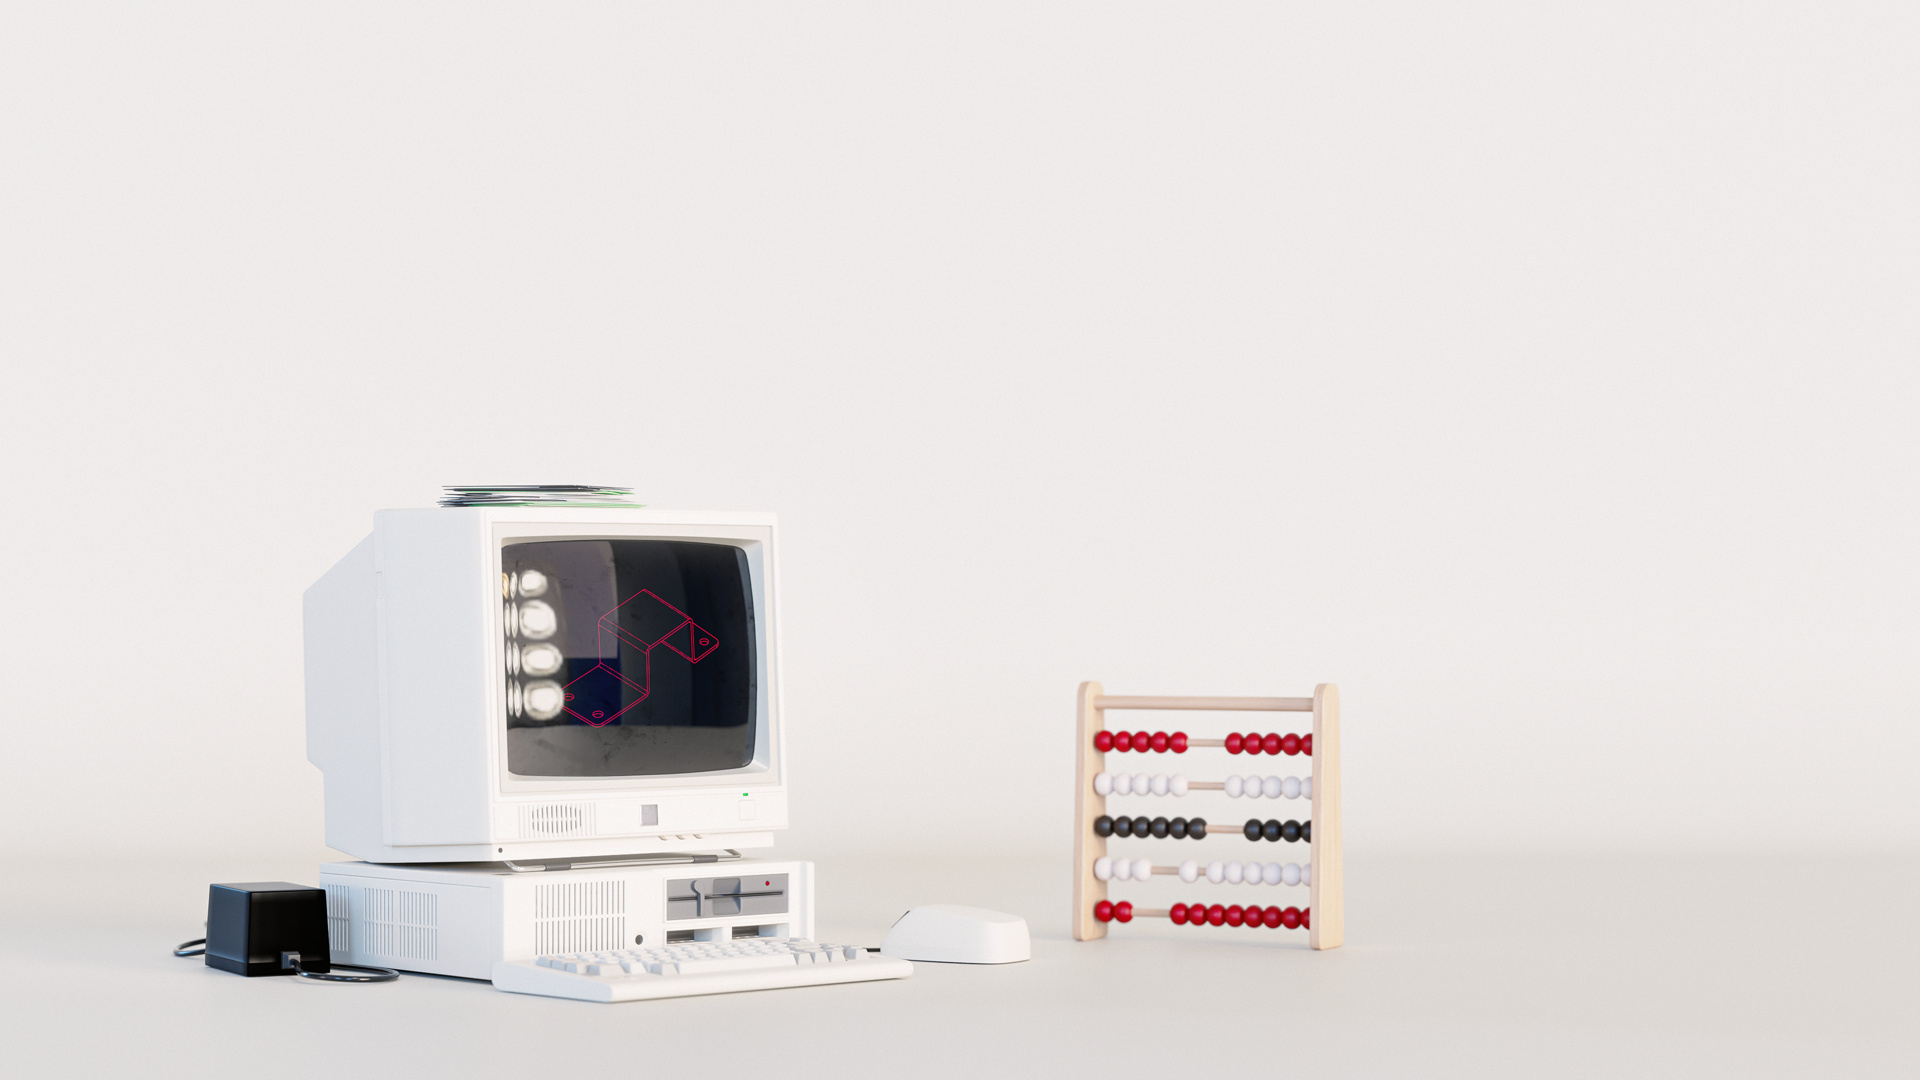
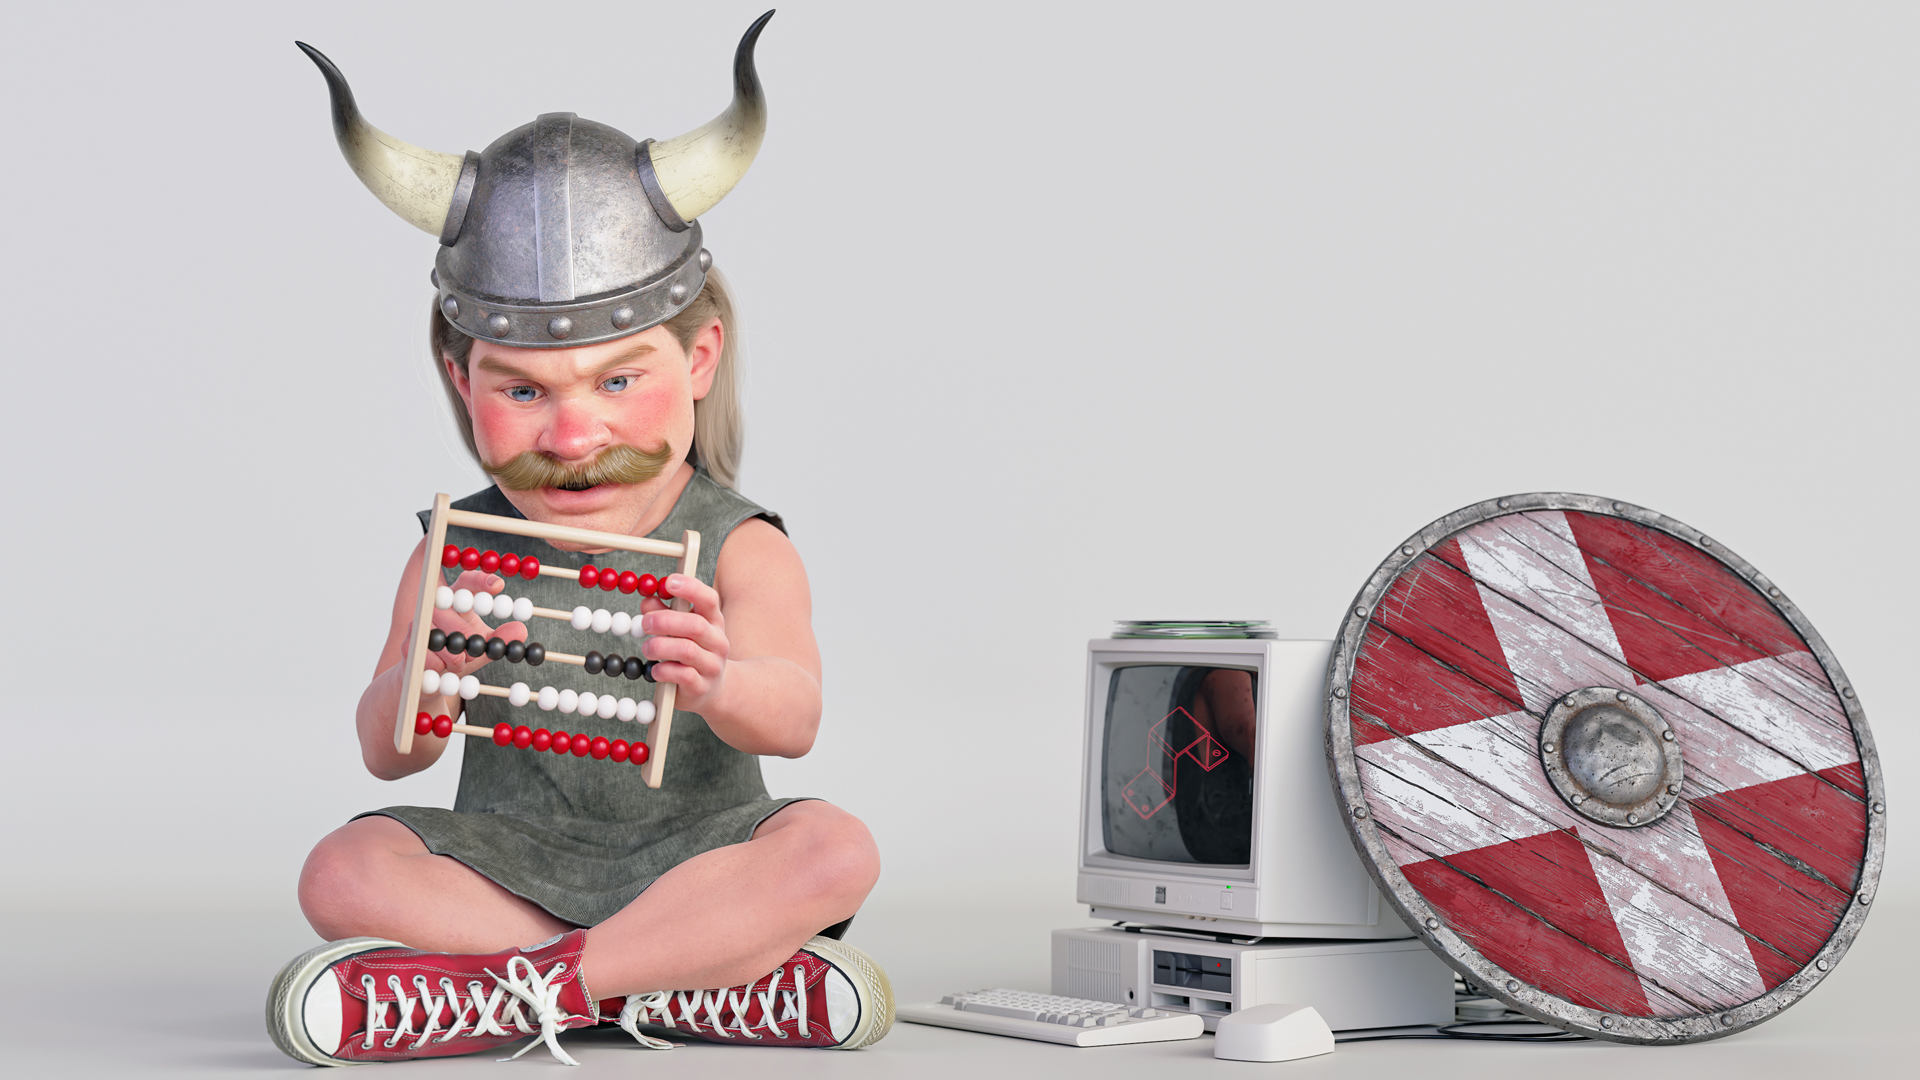
Welcome art: the Viking with the abacus in every build, under its own licence
The maintainer's Warrior illustration, until now the Ridgewater edition's, is the
built-in welcome art. It's the maintainer's own character, so the official build shows
it too. The JPEG is the edition's, with its EXIF, XMP and Photoshop segments dropped
losslessly; its pixels are unchanged.

It's not under Apache-2.0: ART-LICENSE.md keeps it for this project only, credited
"Welcome art © inmymoonsuit", and a modified build must show its own art. About, the
installer's license page, the notices, the build's copied notices and the wheel's
License-Expression say so (ADR-0008 and ADR-0015, amendments).

The README names where the project started: the CADD program at Ridgewater College.

diff --git a/tests/test_welcome.py b/tests/test_welcome.py
@@ -492,22 +492,24 @@ def test_the_fills_are_chosen_before_the_cards_first_paint() -> None:
     welcome.close()
 
 
-def test_the_built_in_art_keeps_both_panes_quiet() -> None:
-    """The built-in art is light and calm: both panes stay at the floor, ink on white.
+def test_the_built_in_art_keeps_the_title_quiet() -> None:
+    """The built-in art is light: both panes are ink on white, the title's at the floor.
 
-    So the title shows the logo in black, the normal one.
+    So the title shows the logo in black, the normal one. The version sits over the
+    shield's rim, so its fill rises to read.
     """
     import math
 
     from caddcalc.gui.icons import current_scheme
 
-    panes = style().panes
+    floor = math.ceil(style().panes.fill_opacity_min * 255)
     welcome = screen()
     welcome.show()
     for pane in (welcome.title, welcome.art.version_pane):
         text_role, fill_role, alpha = pane.fill(current_scheme())
         assert (text_role, fill_role) == ("welcome_ink", "welcome_paper")
-        assert alpha == math.ceil(panes.fill_opacity_min * 255), pane.accessibleName()
+        assert alpha >= floor, pane.accessibleName()
+    assert welcome.title.fill(current_scheme())[2] == floor
     assert welcome.title.shown_logo(current_scheme()) == "normal"
     welcome.close()
 
@@ -522,21 +524,24 @@ def test_the_version_panes_look_doesnt_change_with_the_version(
     monkeypatch: pytest.MonkeyPatch, version: str
 ) -> None:
     """Its pair is chosen over its safe area, so every version looks alike, and reads."""
-    import math
-
     from caddcalc.gui import welcome as module
     from caddcalc.gui.welcome_style import pane_pairs, pane_reads
 
-    monkeypatch.setattr(module, "__version__", version)
     panes = style().panes
-    floor = math.ceil(panes.fill_opacity_min * 255)
+    monkeypatch.setattr(module, "__version__", VERSIONS[0])
+    reference = screen()
+    reference.show()
+    expected = {s: reference.art.version_pane.fill(s) for s in ("light", "dark")}
+    reference.close()
+    monkeypatch.setattr(module, "__version__", version)
     welcome = screen()
     welcome.show()
     pane = welcome.art.version_pane
     assert pane.text == f"Version {version}"
     for scheme in ("light", "dark"):
         text_role, fill_role, alpha = pane.fill(scheme)
-        assert (text_role, fill_role, alpha) == ("welcome_ink", "welcome_paper", floor), scheme
+        assert (text_role, fill_role, alpha) == expected[scheme], scheme
+        assert (text_role, fill_role) == ("welcome_ink", "welcome_paper"), scheme
         text, fill = pane_pairs(panes, scheme)[panes.text_roles.index(text_role)]
         needed = pane.tokens.min_contrast
         assert pane_reads(pane.art, text, fill, alpha, panes, needed), "the contrast rule holds"

diff --git a/tests/test_branding.py b/tests/test_branding.py
@@ -412,6 +412,7 @@ def test_window_shows_the_brand_and_keeps_the_disclaimer(qt: Any, tmp_path: Path
     assert GENERIC_ABOUT in about_html(GENERIC)
     assert "Licensed under the Apache License, Version 2.0" in html, "always shown"
     assert "The name and logo are trademarks: see TRADEMARKS.md." in html, "always shown"
+    assert "Welcome art © inmymoonsuit" in html and "ART-LICENSE.md" in html, "always shown"
     window.close()
     app.processEvents()
 
@@ -695,6 +696,7 @@ def test_the_build_copies_and_checks_every_notice(build_script: ModuleType, tmp_
     missing = build_script.missing_notices(tmp_path)
     assert "LICENSE.md" in missing
     assert "TRADEMARKS.md" in missing
+    assert "ART-LICENSE.md" in missing
     assert "THIRD_PARTY_NOTICES.md" in missing
     assert "licenses/LGPL-3.0.txt" in missing
     build_script.copy_notices(tmp_path)
@@ -708,14 +710,15 @@ def test_the_build_copies_and_checks_every_notice(build_script: ModuleType, tmp_
     ]
 
 
-def test_the_wheel_and_sdist_carry_the_trademark_policy() -> None:
+def test_the_wheel_and_sdist_carry_the_trademark_policy_and_the_art_licence() -> None:
     """PEP 639's license files go in the wheel's metadata and the sdist, beside LICENSE.md."""
     import tomllib
 
     project = tomllib.loads((ROOT / "pyproject.toml").read_text(encoding="utf-8"))["project"]
-    assert {"LICENSE.md", "TRADEMARKS.md", "THIRD_PARTY_NOTICES.md"} <= set(
+    assert {"LICENSE.md", "TRADEMARKS.md", "ART-LICENSE.md", "THIRD_PARTY_NOTICES.md"} <= set(
         project["license-files"]
     )
+    assert project["license"] == "Apache-2.0 AND LicenseRef-CADD-Calculator-Welcome-Art"
 
 
 def test_the_notices_give_qt_and_pyside6_their_copyright_and_source() -> None:

diff --git a/tests/test_brand.py b/tests/test_brand.py
@@ -171,9 +171,15 @@ def test_the_trademark_policy_names_the_marks_and_is_linked() -> None:
 
 
 def test_the_welcome_art_names_its_rights_holder_and_licence() -> None:
-    """The maintainer's art, under Apache-2.0 with the project; art, not a mark."""
-    rights = "Welcome art © inmymoonsuit (the maintainer), licensed under Apache-2.0 with the"
+    """The maintainer's art, for this project only and credited; art, not a mark."""
+    rights = "Welcome art © inmymoonsuit (the maintainer), not under Apache-2.0"
     for doc in ("THIRD_PARTY_NOTICES.md", "docs/dev/design/brand.md"):
         text = " ".join((ROOT / doc).read_text(encoding="utf-8").split())
         assert rights in text, doc
+        assert "ART-LICENSE.md" in text, doc
+    terms = (ROOT / "ART-LICENSE.md").read_text(encoding="utf-8")
+    assert "`src/caddcalc/gui/assets/welcome/welcome-art.jpg`" in terms
+    assert "> Welcome art © inmymoonsuit" in terms, "the credit"
+    assert "**Use it in any other project,**" in terms
+    assert "(ART-LICENSE.md)" in (ROOT / "README.md").read_text(encoding="utf-8")
     assert "welcome art" not in (ROOT / "TRADEMARKS.md").read_text(encoding="utf-8").lower()

diff --git a/packaging/build.py b/packaging/build.py
@@ -297,9 +297,9 @@ def bundle_host_libraries(output: Path) -> list[str]:
     return copied
 
 
-PROJECT_NOTICES = ("LICENSE.md", "TRADEMARKS.md", "THIRD_PARTY_NOTICES.md")
+PROJECT_NOTICES = ("LICENSE.md", "TRADEMARKS.md", "ART-LICENSE.md", "THIRD_PARTY_NOTICES.md")
 """The project's own notices, beside the executable: its license, its trademark policy,
-and the third-party index."""
+the welcome art's licence, and the third-party index."""
 
 
 def copy_notices(output: Path) -> None:
@@ -852,6 +852,13 @@ Trademarks
 
 The "CADD Calculator" name and logo are trademarks of the project's maintainer. Their use
 is governed by TRADEMARKS.md, in the install folder.
+
+----------------------------------------------------------------------
+Welcome art
+
+The welcome screen's art is (c) inmymoonsuit, the project's maintainer, and isn't under
+the Apache License. It may be used only as part of CADD Calculator, with credit; see
+ART-LICENSE.md, in the install folder.
 
 ----------------------------------------------------------------------
 Third-party components

diff --git a/src/caddcalc/gui/branding.py b/src/caddcalc/gui/branding.py
@@ -68,8 +68,8 @@ BRAND = ASSETS / "brand"
 GENERIC_ICON = BRAND / "app-icon.svg"
 """The app icon's master; ``app_icon`` draws every size from it and its small drawings."""
 GENERIC_ART = ASSETS / "welcome" / "welcome-art.jpg"
-"""The official build's welcome art, by the maintainer, under Apache-2.0 with the project
-(docs/dev/design/brand.md). It's art, not a mark, so it isn't in ``BRAND``."""
+"""The official build's welcome art, © the maintainer, for this project only
+(ART-LICENSE.md). It's art, not a mark, so it isn't in ``BRAND``."""
 TITLE_LOGO = BRAND / "logo-outlined.svg"
 """The welcome screen's title: the symbol and the wordmark, for a light fill (ADR-0015)."""
 TITLE_LOGO_REVERSED = BRAND / "logo-outlined-reversed.svg"

diff --git a/src/caddcalc/gui/actions.py b/src/caddcalc/gui/actions.py
@@ -35,7 +35,8 @@ def about_html(branding: Branding) -> str:
         f"<h3>{escape(PRODUCT_NAME)} {escape(__version__)}</h3>"
         + (branding.about_html if branding.about_html is not None else GENERIC_ABOUT)
         + "<p>Licensed under the Apache License, Version 2.0. See LICENSE.md. The name "
-        "and logo are trademarks: see TRADEMARKS.md.</p>"
+        "and logo are trademarks: see TRADEMARKS.md. Welcome art © inmymoonsuit, not "
+        "under that license: see ART-LICENSE.md.</p>"
         f"<p>{escape(_(DISCLAIMER))}</p>"
         '<p><a href="https://github.com/inmymoonsuit/CADD-Calculator">'
         "github.com/inmymoonsuit/CADD-Calculator</a></p>"

diff --git a/tests/test_windows_packaging.py b/tests/test_windows_packaging.py
@@ -99,6 +99,7 @@ def test_the_build_passes_the_version_and_folder_to_the_installer(tmp_path: Path
     assert "GNU LGPL v3" in text
     assert 'The "CADD Calculator" name and logo are trademarks' in text
     assert "governed by TRADEMARKS.md, in the install folder" in " ".join(text.split())
+    assert "with credit; see ART-LICENSE.md, in the install folder" in " ".join(text.split())
     wizard = {"WizardImage": "a.bmp,b.bmp", "WizardSmallImage": "c.bmp,d.bmp"}
     defines = build.installer_defines(output, tmp_path / "app.ico", page, wizard)
     assert defines["WizardImage"] == "a.bmp,b.bmp"

diff --git a/docs/dev/packaging.md b/docs/dev/packaging.md
@@ -120,7 +120,8 @@ fill_opacity_min = 0.25                       # also fill_roles
 * **A modified build (a fork, or changed code or formulas) must look like itself,**
   not like CADD Calculator ([TRADEMARKS.md](../../TRADEMARKS.md)):
   * Its pack supplies its own `icon` and `[welcome]` `product_logo`, which replaces the
-    welcome screen's title. The generic build has no neutral fallback: without them, it
+    welcome screen's title, and its own `[welcome]` `art`: the built-in art is for this
+    project only ([ART-LICENSE.md](../../ART-LICENSE.md)). The generic build has no neutral fallback: without them, it
     shows the CADD Calculator icon and logo. Official builds and branded editions don't
     set `product_logo`.
   * Its name is changed in the code (`PRODUCT_NAME` in `gui/branding.py`), since a pack
@@ -154,7 +155,8 @@ The loader is `caddcalc.gui.branding`. It doesn't import Qt.
 
 ## Notices
 
-The build copies `LICENSE.md`, `TRADEMARKS.md`, and `THIRD_PARTY_NOTICES.md` into the app
+The build copies `LICENSE.md`, `TRADEMARKS.md`, `ART-LICENSE.md`, and
+`THIRD_PARTY_NOTICES.md` into the app
 folder, and the runtime's license texts into its `licenses/` folder. Third-party assets
 inside the package ride along with the package data: the Tabler icons and their `LICENSE.txt`, and
 the welcome screen's display face, VT323, with its `OFL.txt` (`gui/assets/fonts/vt323/`,
@@ -215,7 +217,7 @@ and art.
 4. Runs `pyside6-deploy -c pysidedeploy.spec --no-install`, which runs Nuitka in standalone
    mode. Nuitka must already be installed by uv (the `build` dependency group).
 5. Renames the `.dist` folder, copies the project's notices into it (`LICENSE.md`,
-   `TRADEMARKS.md`, `THIRD_PARTY_NOTICES.md`), and checks that a generic build
+   `TRADEMARKS.md`, `ART-LICENSE.md`, `THIRD_PARTY_NOTICES.md`), and checks that a generic build
    has no `branding/` folder and a branded build has one, and that every reference table
    in `caddcalc.calculators.REFERENCE_TABLES`, such as `sheet_metal/data/gauges.toml`, is
    bundled (`--include-package-data=caddcalc` carries them), as is every file the display

diff --git a/ART-LICENSE.md b/ART-LICENSE.md
@@ -1,0 +1,39 @@
+# Welcome art licence
+
+The illustration on CADD Calculator's welcome screen, the Viking with the abacus
+(`src/caddcalc/gui/assets/welcome/welcome-art.jpg`), is **© inmymoonsuit**, the project's
+maintainer. All rights are reserved, except as this page allows.
+
+It is **not** under the Apache License 2.0 that covers the rest of the repo. That licence
+doesn't apply to this file.
+
+## You can, without asking
+
+* **Redistribute it as part of CADD Calculator:** in official builds, and in copies,
+  clones and forks of this repository, unmodified.
+* **Show it to talk about the project:** screenshots of the app, reviews, articles,
+  lessons and talks about CADD Calculator, crediting it as below.
+
+## Credit
+
+Wherever the illustration is shown outside the app, credit it as:
+
+> Welcome art © inmymoonsuit
+
+## You can't
+
+* **Use it in any other project,** product or work, whether or not you change it.
+* **Use it in a modified version of CADD Calculator:** a fork, or any build with changed
+  code, formulas or data. As with the name and logo ([TRADEMARKS.md](TRADEMARKS.md)), a
+  fork may keep the file in its history and its repo, but its builds must show their own
+  art, from a branding pack's `[welcome]` `art`
+  ([packaging](docs/dev/packaging.md#branding-packs)).
+* **Make derivative works from it,** such as edits, crops for other uses, or new art
+  based on it.
+
+## Anything else
+
+Ask first: open an issue at
+[github.com/inmymoonsuit/CADD-Calculator/issues](https://github.com/inmymoonsuit/CADD-Calculator/issues).
+
+This page isn't legal advice.

diff --git a/docs/dev/decisions/0008-licensing-and-third-party-assets.md b/docs/dev/decisions/0008-licensing-and-third-party-assets.md
@@ -99,3 +99,23 @@ outside the project.
   closes item 4's open question.
 * **Branded editions are unchanged:** a pack's own icon and logo still apply. A pack
   that names no icon shows the project's icon.
+
+### 2026-10-27: the welcome art has its own licence
+
+The maintainer decided (2026-10-27) that the welcome art, the Viking with the abacus,
+is the maintainer's illustration for this project only, shown in every build, and that
+the maintainer must be credited where it's used.
+
+* **It's excluded from Apache-2.0,** so the repo no longer has one licence for every
+  file. [ART-LICENSE.md](../../../ART-LICENSE.md) gives the terms: © inmymoonsuit, all
+  rights reserved, except redistribution as part of CADD Calculator (official builds,
+  and unmodified copies and forks of the repo) and showing it to talk about the project,
+  with the credit "Welcome art © inmymoonsuit". No other project, no modified build, no
+  derivative works.
+* **A modified build must show its own art,** as it must its own name and logo; a fork
+  may keep the file in its repo. A branding pack's `[welcome]` `art` supplies it.
+* **Where it's said:** About, the installer's license page, THIRD_PARTY_NOTICES.md,
+  the README, and the wheel's metadata: `license = "Apache-2.0 AND
+  LicenseRef-CADD-Calculator-Welcome-Art"`, with ART-LICENSE.md among its PEP 639
+  license files. The build copies it beside the executable, with the other notices.
+* It's still art, not a mark: TRADEMARKS.md doesn't cover it.

diff --git a/README.md b/README.md
@@ -8,8 +8,8 @@
 Open-source calculators for computer-aided drafting and design. It runs as a desktop app
 on Windows, macOS, and Linux, and as a command-line tool.
 
-It started as the Excel spreadsheets used to teach sheet-metal bend calculations in a
-CADD degree program. The goal is a principled, tested, extensible home for those
+It started as the Excel spreadsheets used to teach sheet-metal bend calculations in the
+CADD program at Ridgewater College. The goal is a principled, tested, extensible home for those
 calculations and for future ones: structural drafting, tolerancing, threads, and more.
 
 > **Status: pre-alpha (0.1.0a2, the second pre-release).** Sixteen calculators in three families work from
@@ -103,5 +103,7 @@ practice before manufacturing. The software comes with no warranty.
 and its logo are also trademarks: see [TRADEMARKS.md](TRADEMARKS.md). In short, you can
 refer to the project and share unmodified builds, and a modified version needs its own
 name and icon.
+The welcome screen's art is the exception: © inmymoonsuit, for this project only, and
+credited when shown. See [ART-LICENSE.md](ART-LICENSE.md).
 Third-party names and marks aren't covered by the code licence either. See
 [ADR-0008](docs/dev/decisions/0008-licensing-and-third-party-assets.md).

diff --git a/docs/dev/decisions/0015-welcome-screen.md b/docs/dev/decisions/0015-welcome-screen.md
@@ -422,3 +422,19 @@ for the official build (relayed by PM, as are the decisions below).
   no metadata; the panes stay quiet over it, the title shows the logo in black, and the
   reversed logo still shows over dark art; with no readable art, the background shows;
   and the build's smoke test refuses `none` for the official build.
+
+### 2026-10-27: the Viking with the abacus, in every build (PM)
+
+The maintainer chose (2026-10-27) to show one art in every build: the Viking with the
+abacus, until now the Ridgewater edition's. It's the maintainer's own character, not
+the college's iconography, so the official build may show it too.
+
+* **The file:** the same `gui/assets/welcome/welcome-art.jpg`, 1920 × 1080, 979 KB: the
+  edition's JPEG with its EXIF, XMP, Photoshop and Adobe segments dropped, losslessly.
+  Its pixels are the delivered file's, and the Adobe segment only said YCbCr, the
+  default.
+* **Its licence is its own** ([ART-LICENSE.md](../../../ART-LICENSE.md); ADR-0008,
+  amendments): for this project only, credited, not under Apache-2.0.
+* **Over it:** the scene is light, as before, so the title keeps the logo in black at
+  the 15% floor. The version sits over the shield's rim, so its fill rises (to 178 of
+  255 at 100%) to read; both stay ink on white.
